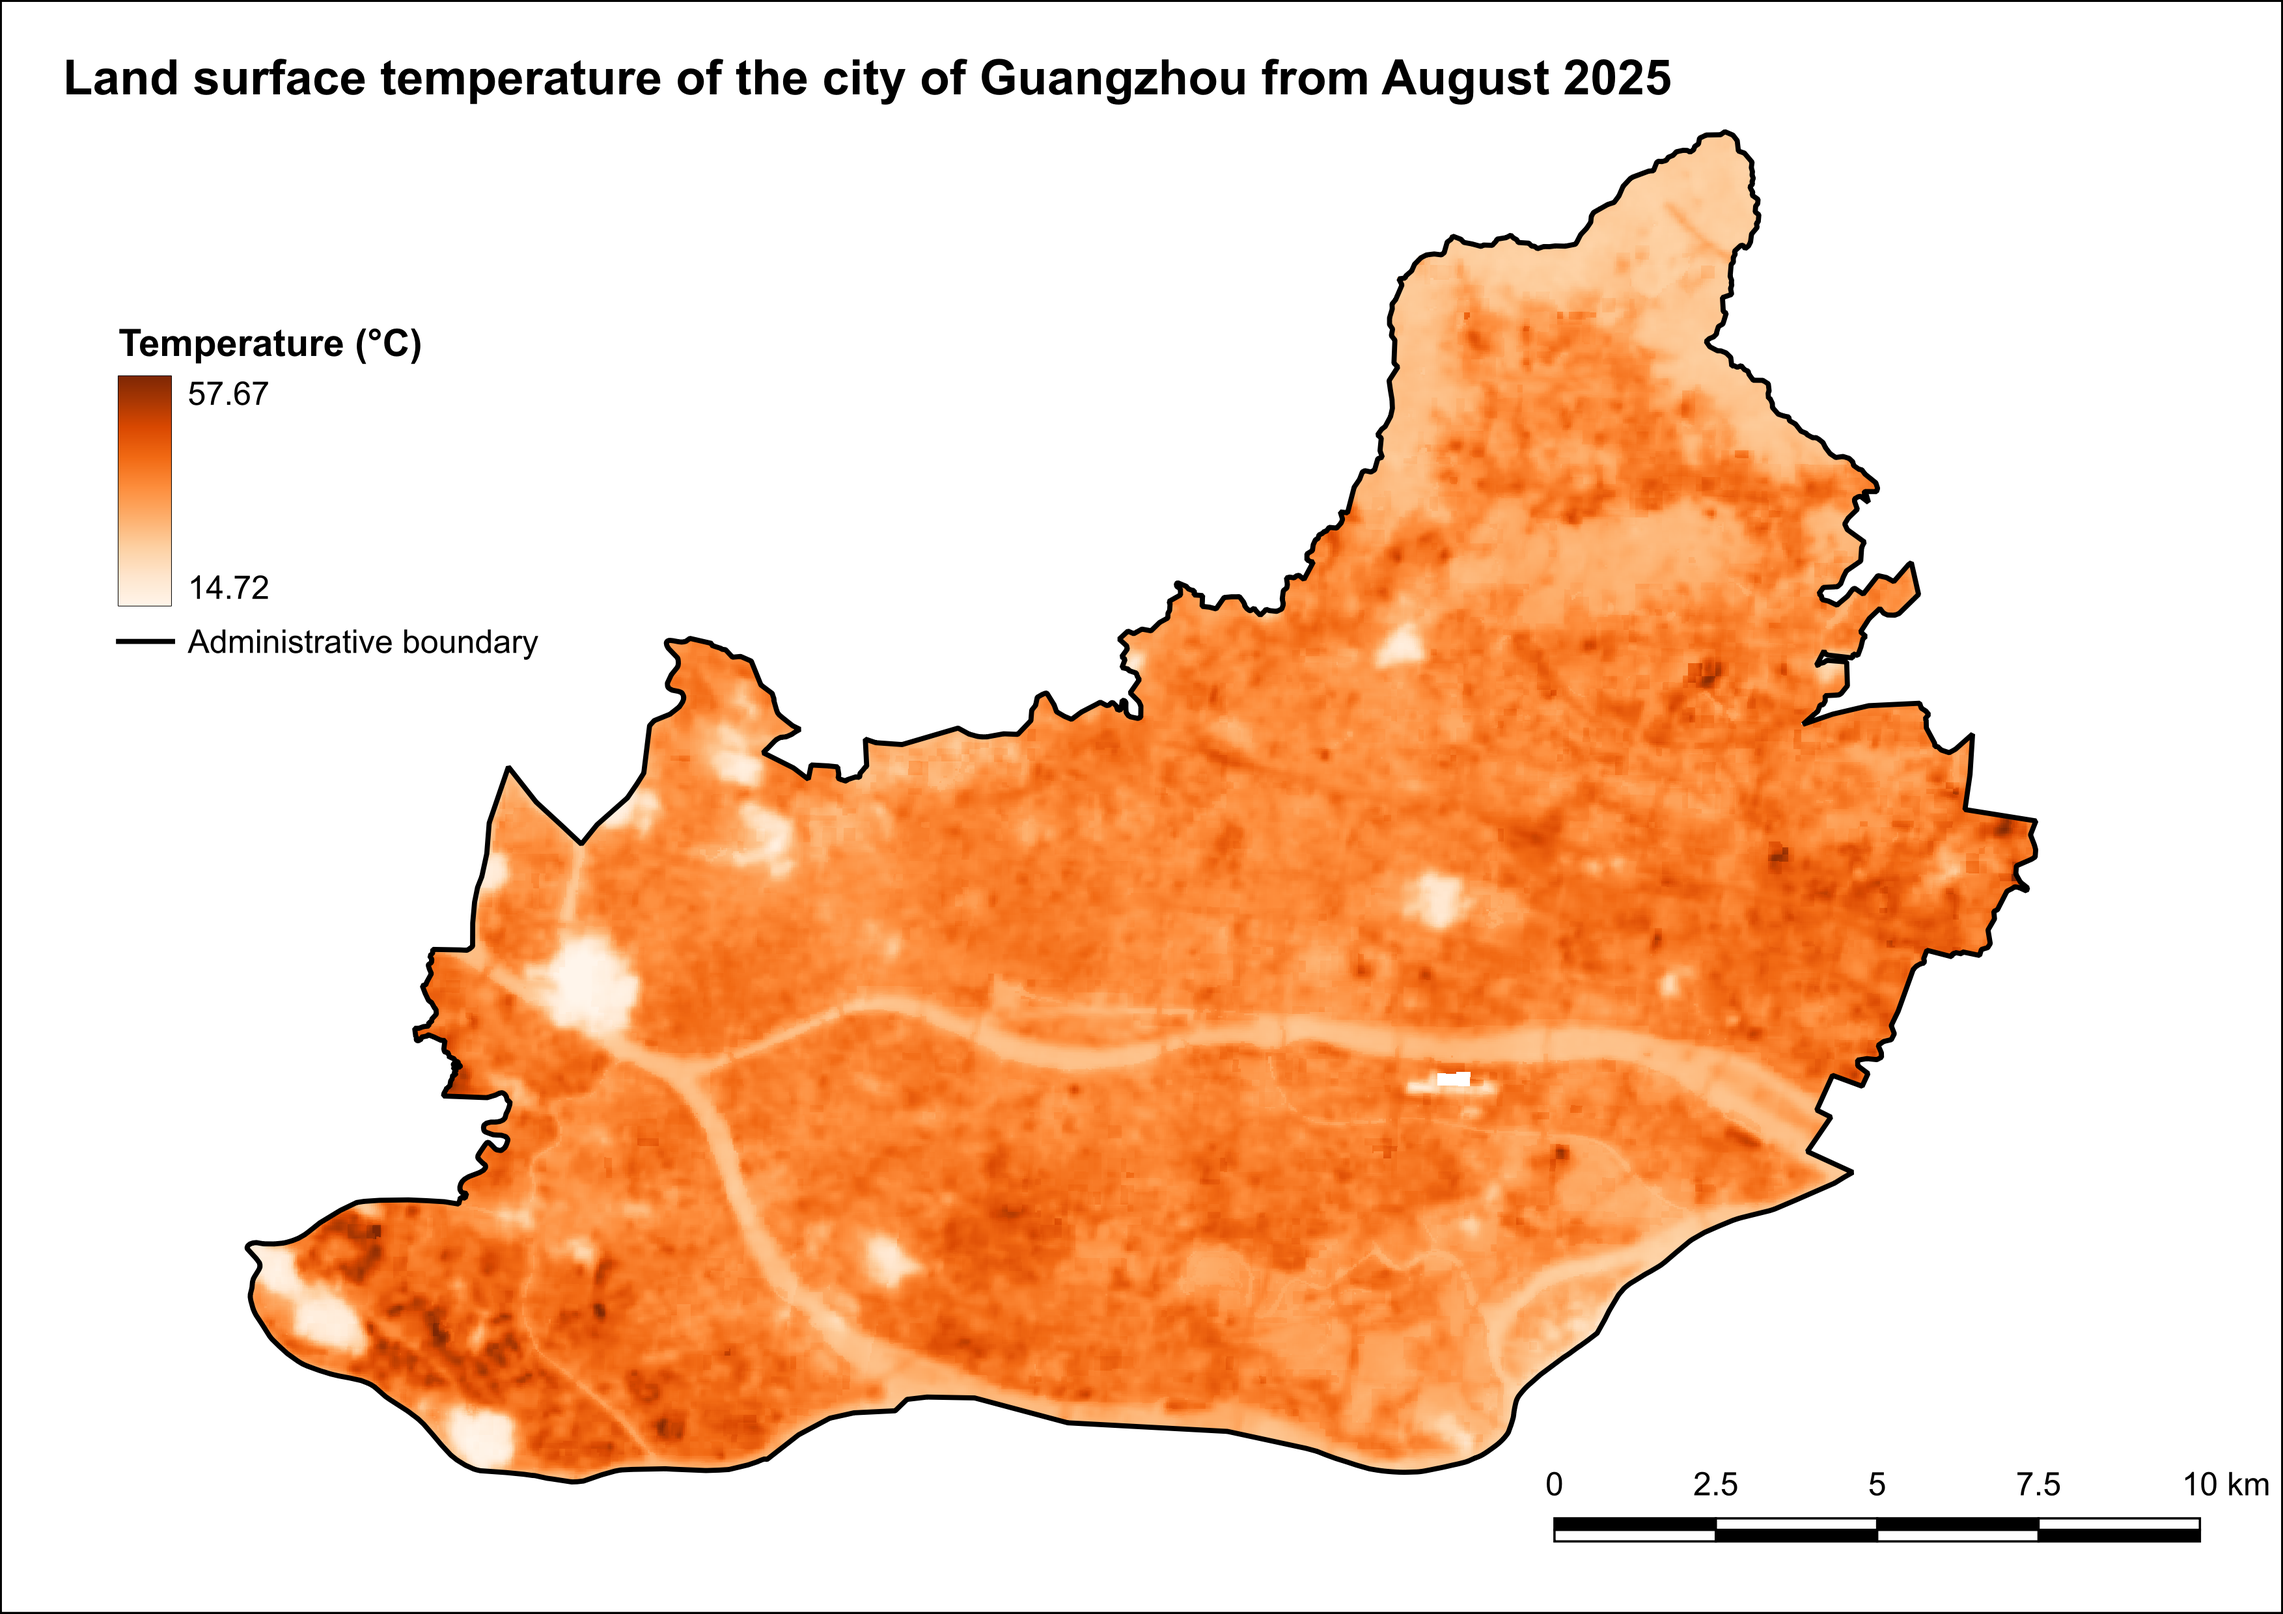
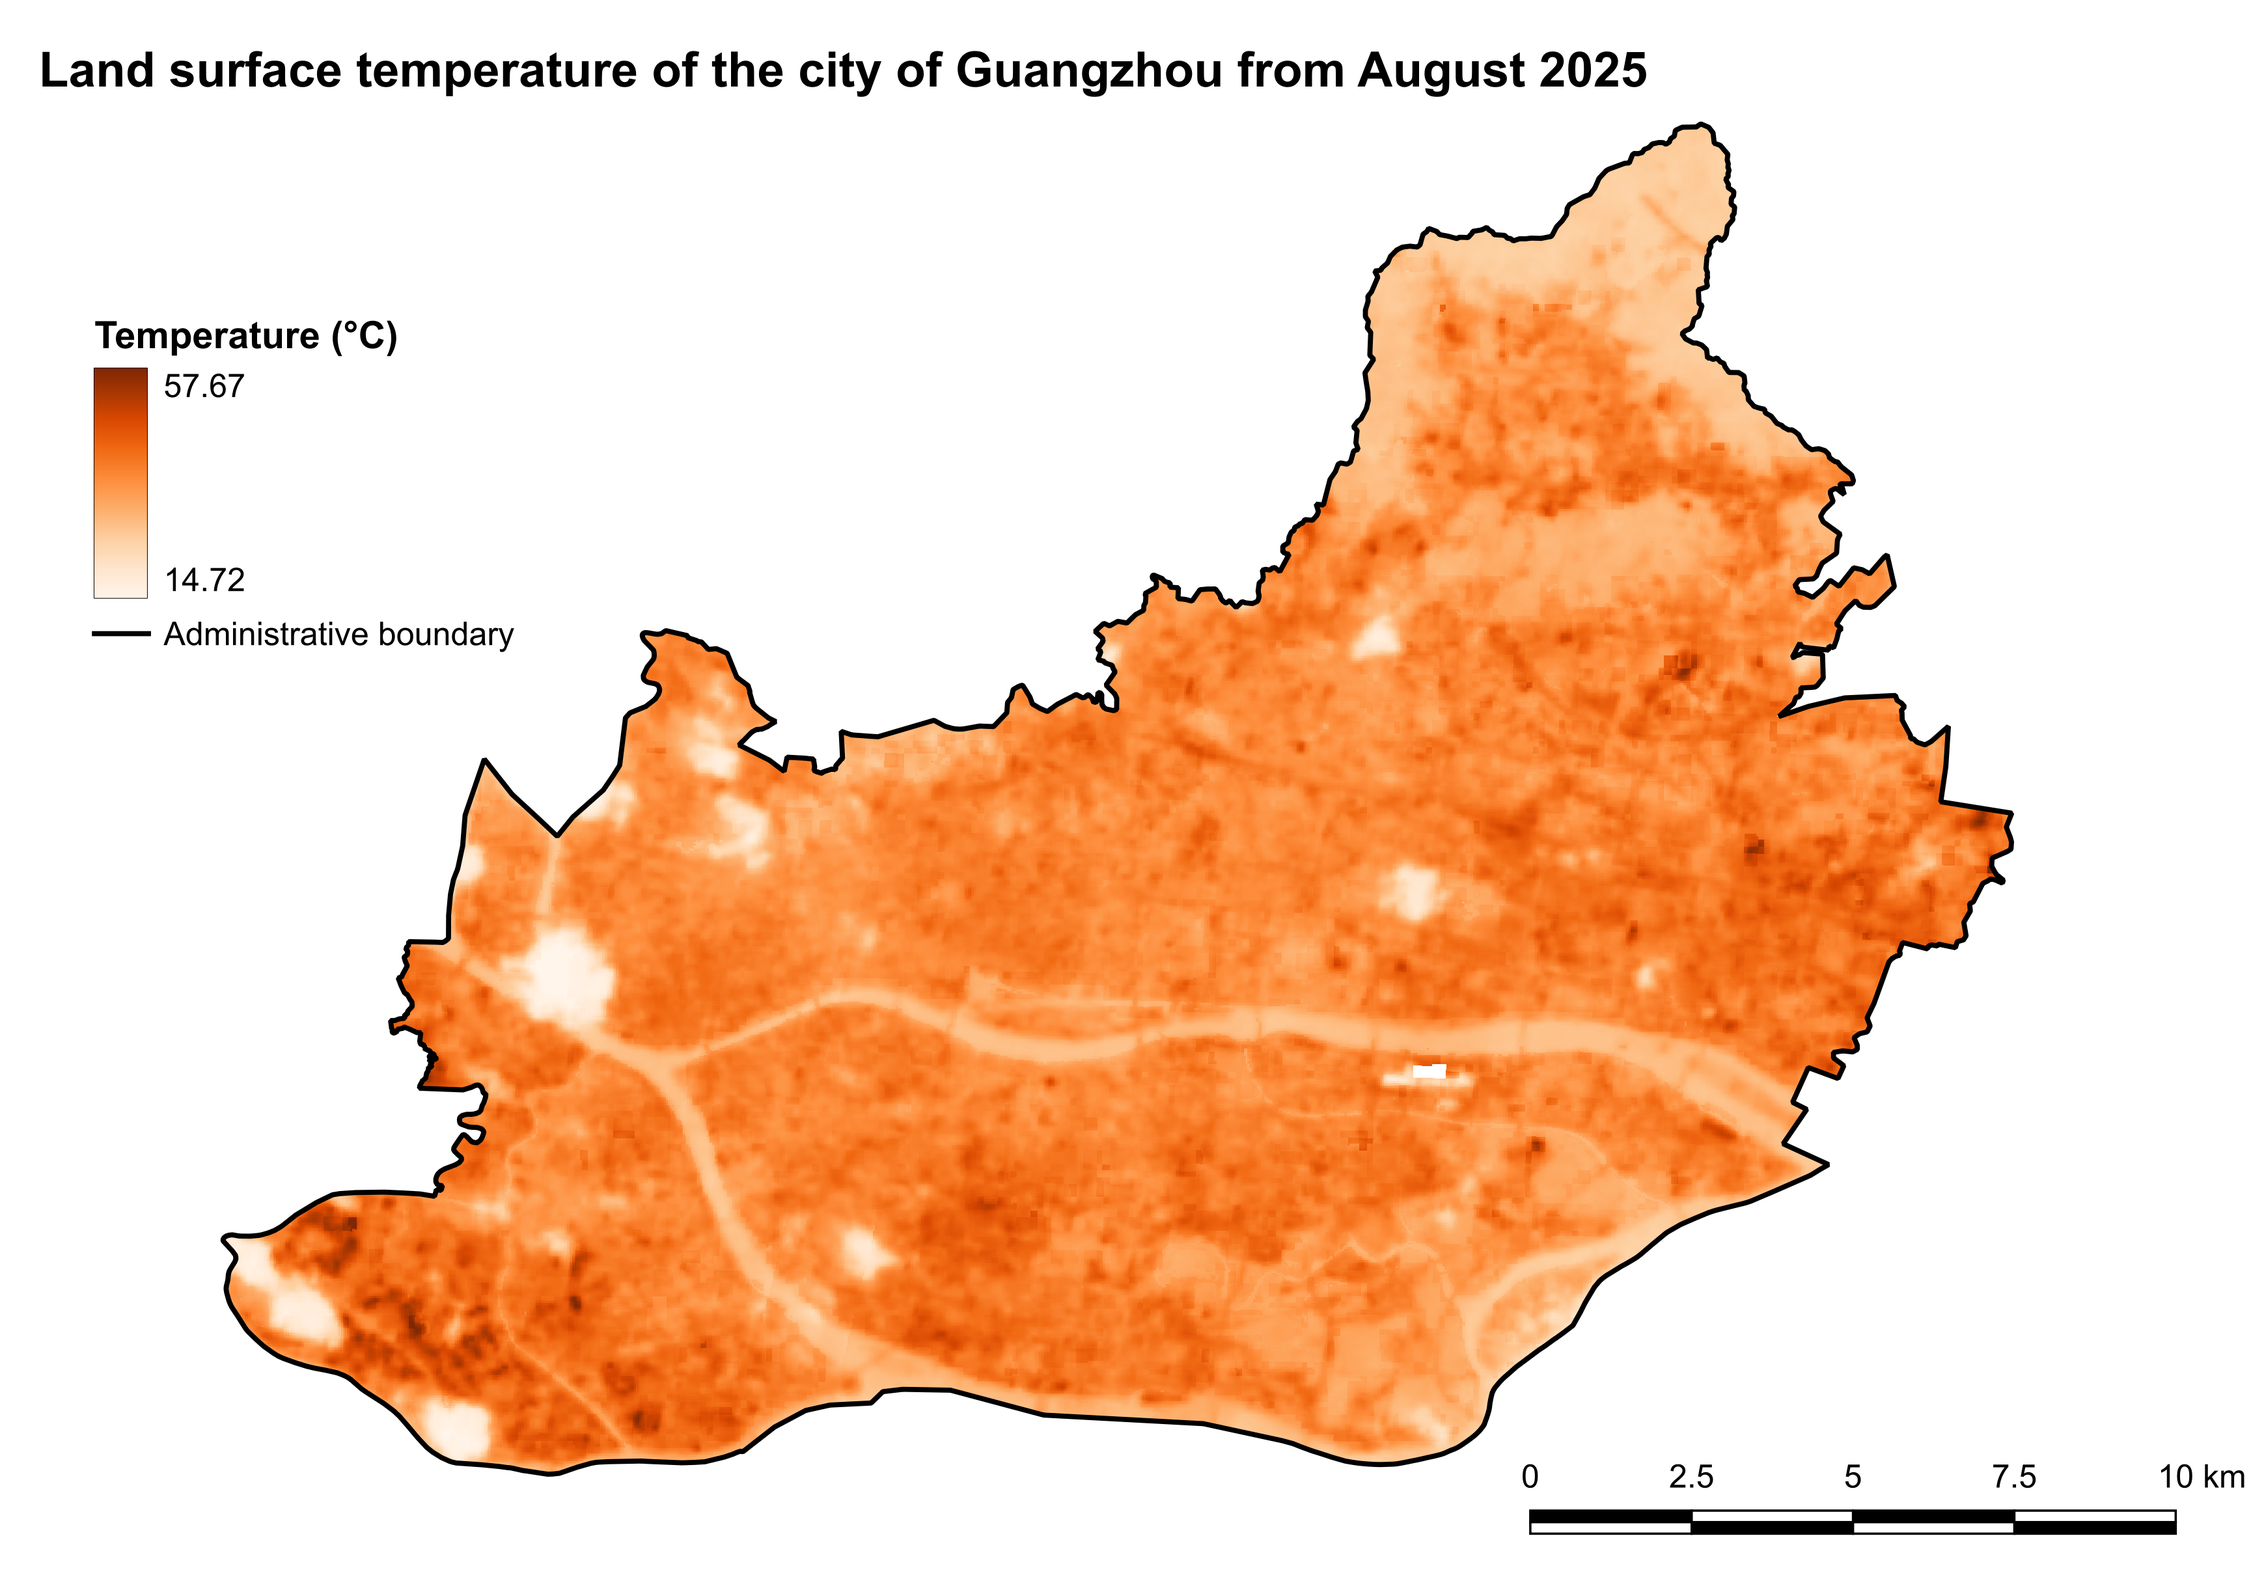
Small changes to the report

diff --git a/Report/report.html b/Report/report.html
@@ -179,8 +179,8 @@ window.Quarto = {
 <h2 class="anchored" data-anchor-id="metrics">Metrics</h2>
 <!-- Explain the metrics that will answer the research question -->
 <ul>
-<li>Scale We settled on using a scale of 1:110000 for both Rotterdam and Guangzhou’s city extents so that the comparison analysis is harmonized on exclusively one common scale.</li>
-<li>LST To assess the urban micro-climate, Land Surface Temperature (LST) maps were generated for both cities using sattelite imagery from Landsat-8 and Lndsat-9. For Rotterdam, imagery from July 2025, and for Guangzhou, imagery from August 2025 was acquired. We wanted to pick the hottest times of the year to measure the impact of the LST at its highest values. Picking out datasets with unobstructed view of the city extents was heavily dependent on the availability of satellite imagery for the specific period we wanted. The spatial analysis was conducted by first clipping the raster datasets to the respective study area boundary polygons using a mask layer. To convert the raw Digital Number (DN) values into meaningful temperature readings, the standard USGS scale factor was applied to calculate the temperature in Kelvin: <span class="math display">\[T_{K}={DN * 0.0341802 + 149.0}\]</span></li>
+<li>Scale - We settled on using a scale of 1:110000 for both Rotterdam and Guangzhou’s city extents so that the comparison analysis is harmonized on exclusively one common scale.</li>
+<li>LST - To assess the urban micro-climate, Land Surface Temperature (LST) maps were generated for both cities using sattelite imagery from Landsat-8 and Lndsat-9. For Rotterdam, imagery from July 2025, and for Guangzhou, imagery from August 2025 was acquired. We wanted to pick the hottest times of the year to measure the impact of the LST at its highest values. Picking out datasets with unobstructed view of the city extents was heavily dependent on the availability of satellite imagery for the specific period we wanted. The spatial analysis was conducted by first clipping the raster datasets to the respective study area boundary polygons using a mask layer. To convert the raw Digital Number (DN) values into meaningful temperature readings, the standard USGS scale factor was applied to calculate the temperature in Kelvin: <span class="math display">\[T_{K}={DN * 0.0341802 + 149.0}\]</span></li>
 </ul>
 <p>Subsequently, the Kelvin values were converted to degrees Celsius using the following formula: <span class="math display">\[T_{∘C}= {T_{K} - 273.15}\]</span></p>
 <ul>
@@ -238,7 +238,7 @@ Figure&nbsp;1: Municipal boundary and neighborhoods (“buurten”) in Rotterdam
 </div>
 <section id="land-surface-temperature" class="level2">
 <h2 class="anchored" data-anchor-id="land-surface-temperature">Land Surface Temperature</h2>
-<p>After deriving the land surface temperature for Rotterdam, the results showcased in the figure below are clearly defined. Lighter areas correspond to larger green areas and the water bodies in the city extent. In contrast, the darker areas correspond to places such as industrial zones and inner ports of Rotterdam, which are the biggest contributor of extreme LST values on the map: <img src="maps/lst_rotterdam.png" class="img-fluid quarto-figure quarto-figure-center" alt="Land surface temperature of Rotterdam in July 2025"></p>
+<p>After deriving the land surface temperature for Rotterdam, the results showcased in the figure below are clearly defined. Lighter areas correspond to larger green areas and the water bodies in the city extent. In contrast, the darker areas correspond to places such as industrial zones and inner ports of Rotterdam, which are the biggest contributor of extreme LST values on the map: <img src="maps/lst_rotterdam.png" id="fig-lst-rdm" class="img-fluid quarto-figure quarto-figure-center anchored" alt="Land surface temperature of Rotterdam in July 2025"></p>
 </section>
 <section id="climate-vulnerability" class="level2">
 <h2 class="anchored" data-anchor-id="climate-vulnerability">Climate Vulnerability</h2>
@@ -369,9 +369,9 @@ Figure&nbsp;4: Spatial Justice Index per neighborhood in Rotterdam comparable to
 </section>
 <section id="relationship-urban-climate-and-spatial-justice" class="level2">
 <h2 class="anchored" data-anchor-id="relationship-urban-climate-and-spatial-justice">Relationship Urban Climate and Spatial Justice</h2>
-<p><strong>TO DO: Write introduction to this section</strong></p>
-<p><strong>TO DO: Make a combined map of Spatial Justice Index and LST</strong></p>
-<p><strong>TO DO: Describe the process of making the map and what you can tell from it</strong></p>
+<p><strong>TO DO: Write introduction to this section</strong> As not everyone is as vulnerable to heat stress as others, it is important to look at the relationship between the spatial justice index, which is mostly based on socio-demographic factors, and the land surface temperature. By plotting the two together, we can visually assess whether the most vulnerable neighborhoods are also the ones experiencing the highest temperatures. This can reveal whether there is a spatial justice issue in terms of climate vulnerability, where disadvantaged populations may be disproportionately exposed to heat stress without adequate access to mitigating green infrastructure.</p>
+<p><strong>TO DO: Make a combined map of Spatial Justice Index and LST</strong> <img src="maps/LST_SJI_Rotterdam.png" id="fig-sji-lst-rot" class="img-fluid quarto-figure quarto-figure-center anchored" data-fig-pos="H" alt="Spatial Justice Index and Land Surface Temperature in Rotterdam"></p>
+<p><strong>TO DO: Describe the process of making the map and what you can tell from it</strong> We used the simplified Spatial Justice Index, which is based on the same metrics as the Guangzhou SJI, to make it comparable. We plotted the SJI against the LST for each neighborhood, using a scatter plot. The plot shows that there is some correlation between the two variables, although not very strong. But we can see some linear trend where the most vulnerable neighborhoods (with a lower SJI) tend to have higher LST values, indicating that they are more exposed to heat stress. However, there are also some outliers where vulnerable neighborhoods have lower LST values, which could be due to the presence of green spaces or other cooling factors. Overall, the plot suggests that there is a spatial justice issue in terms of climate vulnerability in Rotterdam, where disadvantaged populations may be disproportionately exposed to heat stress without adequate access to mitigating green infrastructure. However, the relationship is not very strong, and further analysis would be needed to confirm this finding.</p>
 </section>
 </section>
 <section id="results-guangzhou-case-study" class="level1">
@@ -391,10 +391,14 @@ Figure&nbsp;5: Sub-districts in the central area of Guangzhou
 <section id="land-surface-temperature-1" class="level2">
 <h2 class="anchored" data-anchor-id="land-surface-temperature-1">Land Surface Temperature</h2>
 <p>In a similar way after deriving the land surface temperature for Rotterdam, the results for Guangzhou showcase a clear contrast between the least and most influenced areas. The natural parks and water canals that go across Guangzhou are areas that are the least influenced due to their inherent nature. In comparison, the darker areas correspond to the industrial areas and areas under construction, which are the biggest contributor of extreme LST values for Guangzhou:</p>
-<div class="quarto-figure quarto-figure-center">
-<figure class="figure">
-<p><img src="maps/lst_guangzhou.png" class="img-fluid figure-img"></p>
-<figcaption>Land surface temperature of Guangzhou in August 2025</figcaption>
+<div id="fig-lst-guang" class="quarto-float quarto-figure quarto-figure-center anchored" data-fig-align="center">
+<figure class="quarto-float quarto-float-fig figure">
+<div aria-describedby="fig-lst-guang-caption-0ceaefa1-69ba-4598-a22c-09a6ac19f8ca">
+<img src="maps/lst_guangzhou.png" class="img-fluid quarto-figure quarto-figure-center figure-img">
+</div>
+<figcaption class="quarto-float-caption-bottom quarto-float-caption quarto-float-fig" id="fig-lst-guang-caption-0ceaefa1-69ba-4598-a22c-09a6ac19f8ca">
+Figure&nbsp;6: Land surface temperature of Guangzhou in August 2025
+</figcaption>
 </figure>
 </div>
 </section>
@@ -428,7 +432,7 @@ Figure&nbsp;5: Sub-districts in the central area of Guangzhou
 <img src="maps/vulnerability_guangzhou.png" class="img-fluid quarto-figure quarto-figure-center figure-img" style="width:90.0%" data-fig-pos="H">
 </div>
 <figcaption class="quarto-float-caption-bottom quarto-float-caption quarto-float-fig" id="fig-green-lst-guangzhou-caption-0ceaefa1-69ba-4598-a22c-09a6ac19f8ca">
-Figure&nbsp;6: Distance to green vs LST in Guangzhou
+Figure&nbsp;7: Distance to green vs LST in Guangzhou
 </figcaption>
 </figure>
 </div>
@@ -436,9 +440,30 @@ Figure&nbsp;6: Distance to green vs LST in Guangzhou
 </section>
 <section id="socio-economic-vulnerability-1" class="level2">
 <h2 class="anchored" data-anchor-id="socio-economic-vulnerability-1">Socio-Economic Vulnerability</h2>
+<div id="fig-sji-guangzhou" class="quarto-float quarto-figure quarto-figure-center anchored" data-fig-align="center" data-fig-pos="H">
+<figure class="quarto-float quarto-float-fig figure">
+<div aria-describedby="fig-sji-guangzhou-caption-0ceaefa1-69ba-4598-a22c-09a6ac19f8ca">
+<img src="maps/SJI_Guangzhou.png" class="img-fluid quarto-figure quarto-figure-center figure-img" data-fig-pos="H">
+</div>
+<figcaption class="quarto-float-caption-bottom quarto-float-caption quarto-float-fig" id="fig-sji-guangzhou-caption-0ceaefa1-69ba-4598-a22c-09a6ac19f8ca">
+Figure&nbsp;8: Spatial Justice Index per sub-district in Guangzhou
+</figcaption>
+</figure>
+</div>
 </section>
 <section id="relationship-urban-climate-and-spatial-justice-1" class="level2">
 <h2 class="anchored" data-anchor-id="relationship-urban-climate-and-spatial-justice-1">Relationship Urban Climate and Spatial Justice</h2>
+<div id="fig-sji-lst-gz" class="quarto-float quarto-figure quarto-figure-center anchored" data-fig-align="center" data-fig-pos="H">
+<figure class="quarto-float quarto-float-fig figure">
+<div aria-describedby="fig-sji-lst-gz-caption-0ceaefa1-69ba-4598-a22c-09a6ac19f8ca">
+<img src="maps/LST_SJI_Guangzhou.png" class="img-fluid quarto-figure quarto-figure-center figure-img" data-fig-pos="H">
+</div>
+<figcaption class="quarto-float-caption-bottom quarto-float-caption quarto-float-fig" id="fig-sji-lst-gz-caption-0ceaefa1-69ba-4598-a22c-09a6ac19f8ca">
+Figure&nbsp;9: Spatial Justice Index and Land Surface Temperature in Guangzhou
+</figcaption>
+</figure>
+</div>
+<p>We used the same simplified Spatial Justice Index as for Rotterdam, which is based on the same metrics. We plotted the SJI against the LST for each sub-district, using a scatter plot. Unlike for Rotterdam, the plot shows no correlation at all between the two variables. This can be due to the lack of detailed data for Guangzhou, or it could indicate that there is no spatial justice issue in terms of climate vulnerability in Guangzhou. However, without further analysis, it is difficult to draw any conclusions from this plot.</p>
 </section>
 </section>
 <section id="discussion" class="level1">
